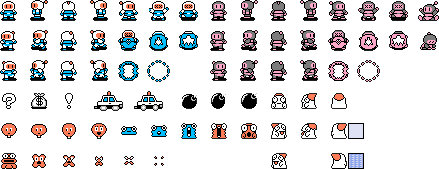
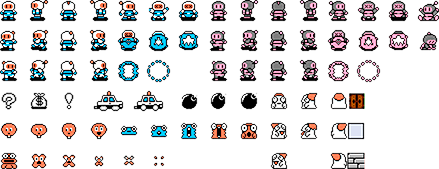
puerta y muros

diff --git a/Proyecto_INT/src/proyecto_int/Main.java b/Proyecto_INT/src/proyecto_int/Main.java
@@ -2,6 +2,7 @@ package bomberman;
 
 import Constantes.ConstantesGlobales;
 import Mapas.Mapa;
+import Modelos.Nodo;
 import java.io.BufferedReader;
 import java.io.File;
 import java.io.FileReader;
@@ -20,6 +21,9 @@ import javax.swing.JOptionPane;
 public class Main extends Application {
 
     ArrayList<String[]> mapa;
+    ArrayList<ArrayList<Nodo>> mapaNodos;
+    int[] inicio;
+    int[] fin;
 
     @Override
     public void start(Stage escenario) {
@@ -35,22 +39,158 @@ public class Main extends Application {
                 mapa.add(linea.split(","));
                 System.out.println(linea);
             }
-            JOptionPane.showMessageDialog(null, "Mapa cargado correctamente");
+            
             escenario.setTitle(ConstantesGlobales.NOMBRE + ConstantesGlobales.VERSION);
-            Mapa.configurarMapa(mapa);
-
+            buscarInicioFinal(mapa);
+            Mapa.configurarMapa(mapa, inicio[0], inicio[1]);
             Scene s = Mapa.getMapa();
             escenario.setScene(s);
+            JOptionPane.showMessageDialog(null, "Mapa cargado correctamente");
+            String[] options = {"Anchura", "Profundidad", "Costo Uniforme", "Beam Search", "Hill climbing", "A estrella"};
+            int selection = JOptionPane.showOptionDialog(null, "Tipo de algoritmo a aplicar:", "Hora de jugar Bomberman!", 0, 3, null, options, options[0]);
+            switch (selection) {
+
+                case 1: {
+
+                    System.out.println("Usted eligió la opcion 1.");
+
+                    break;
+
+                }
+
+                case 2: {
+
+                    System.out.println("Usted eligió la opcion 2.");
+
+                    break;
+
+                }
+
+                case 3: {
+
+                    System.out.println("Usted eligió la opcion 3.");
+
+                    break;
+
+                }
+
+                case 4: {
+
+                    System.out.println("Usted eligió la opcion 3.");
+
+                    break;
+
+                }
+
+                case 5: {
+
+                    System.out.println("Usted eligió la opcion 3.");
+
+                    break;
+
+                }
+
+                case 6: {
+
+                    System.out.println("Usted eligió la opcion 3.");
+
+                    break;
+
+                }
+
+                default: {
+
+                    System.out.println("Opcion incorrecta");
+
+                }
+            }
             escenario.show();
 
         } catch (Exception e) {
-            JOptionPane.showMessageDialog(null, "No se logro cargar el mapa");
+            JOptionPane.showMessageDialog(null, "No se logro cargar el mapa"+e);
         }
 
     }
 
     public static void main(String[] args) {
         launch(args);
+    }
+
+    private void buscarInicioFinal(ArrayList<String[]> mapaTxt) {
+        System.out.println("entra");
+        int x = 0;
+        int y = 0;
+        inicio = new int[2];
+        fin = new int[2];
+        mapaNodos = new ArrayList<ArrayList<Nodo>>();
+        for (String[] i : mapaTxt) {
+            x = 0;
+            ArrayList<Nodo> filaTemporal = new ArrayList<Nodo>();
+
+            for (String j : i) {
+                switch (j) {
+
+                    case "I": {
+                        //filaTemporal.add(new Nodo(x + "" + y));
+                        //this.agregarAdyacencias(mapaTxt, x, y);
+                        inicio[0] = x * 33;
+                        inicio[1] = y * 32;
+                        break;
+
+                    }
+
+                    case "F": {
+                        //filaTemporal.add(new Nodo(x + "" + y));
+                        //this.agregarAdyacencias(mapaTxt, x, y);
+                        fin[0] = x * 33;
+                        fin[1] = y * 32;
+                        break;
+
+                    }
+                    case "M": {
+                        //filaTemporal.add(null);
+                        break;
+
+                    }
+                    case "C": {
+                        //filaTemporal.add(new Nodo(x + "" + y));
+                        //this.agregarAdyacencias(mapaTxt, x, y);
+                        break;
+
+                    }
+                    default: {
+
+                    }
+                }
+                x++;
+            }
+            mapaNodos.add(filaTemporal);
+            y++;
+
+        }
+    }
+
+    public void agregarAdyacencias(ArrayList<String[]> mapaTxt, int x, int y) {
+        ArrayList<Nodo> lista = new ArrayList<Nodo>();
+        if(x>0){
+            lista.add(new Nodo(x-1 + "" + y));
+            
+        }
+        if(x<(mapaTxt.get(0).length-1)){
+            lista.add(new Nodo(x+1 + "" + y));
+        }
+        if(y>0){
+            lista.add(new Nodo(x + "" + (y-1)));
+            
+        }
+        if(y<(mapaTxt.size()+1)){
+            lista.add(new Nodo(x + "" + (y+1)));
+        }
+
+    }
+
+    public void crearArbol(ArrayList<String[]> mapaTxt) {
+
     }
 
 }

diff --git a/Proyecto_INT/src/Mapas/Mapa.java b/Proyecto_INT/src/Mapas/Mapa.java
@@ -9,7 +9,6 @@ import Jugador.Jugador;
 import RecursosMapa.Bomba;
 import RecursosMapa.ParedIndestructible;
 import RecursosMapa.ParedDestructible;
-import RecursosMapa.Pared;
 import Controles.ControlEventos;
 import javafx.scene.Group;
 import javafx.scene.Scene;
@@ -19,6 +18,7 @@ import javafx.scene.paint.Color;
 import Entidades.Entidad;
 import static Constantes.ConstantesGlobales.ANCHO_CANVAS;
 import static Constantes.ConstantesGlobales.ALTO_CANVAS;
+import RecursosMapa.Puerta;
 import java.util.ArrayList;
 
 /**
@@ -53,7 +53,7 @@ public class Mapa {
         }
     }
 
-    private static void inicializar(ArrayList<String[]> mapaTxt) {
+    private static void inicializar(ArrayList<String[]> mapaTxt, int xInicio, int yInicio) {
         root = new Group();
         int anchoMapa = mapaTxt.get(0).length * 33;
         int altoMapa = mapaTxt.size() * 33;
@@ -67,7 +67,7 @@ public class Mapa {
         Renderizado.inicializar();
         CicloJuego.iniciar(contextoGraficos);
 
-        Jugador p = new Jugador();
+        Jugador p = new Jugador(xInicio, yInicio);
         setJugador(p);
 
         cargarMapa(mapaTxt);
@@ -77,7 +77,6 @@ public class Mapa {
     }
 
     public static void cargarMapa(ArrayList<String[]> mapaTxt) {
-        Vector<Pared> muros = new Vector<Pared>();
         int x = 0;
         int y = 0;
         for (String[] i : mapaTxt) {
@@ -96,6 +95,10 @@ public class Mapa {
                         break;
 
                     }
+                    case "F": {
+                        addEntidad(new Puerta(x, y));
+                        break;
+                    }
                     default: {
 
                     }
@@ -107,9 +110,9 @@ public class Mapa {
         }
     }
 
-    public static void configurarMapa(ArrayList<String[]> mapaTxt) {
+    public static void configurarMapa(ArrayList<String[]> mapaTxt, int xInicio, int yInicio) {
         if (!mapaListo) {
-            inicializar(mapaTxt);
+            inicializar(mapaTxt, xInicio, yInicio);
             mapaListo = true;
         }
     }

diff --git a/Proyecto_INT/src/RecursosMapa/Puerta.java b/Proyecto_INT/src/RecursosMapa/Puerta.java
@@ -1,17 +1,20 @@
+/*
+ * To change this license header, choose License Headers in Project Properties.
+ * To change this template file, choose Tools | Templates
+ * and open the template in the editor.
+ */
 package RecursosMapa;
 
-import bomberman.Renderizado;
 import Animaciones.Disfraz;
-import Constantes.ConstantesGlobales;
-import javafx.scene.paint.Color;
-import Entidades.EntidadEstatica;
 import Entidades.Entidad;
+import Entidades.EntidadEstatica;
+import bomberman.Renderizado;
 
 /**
  *
- * * @author julian y migue
+ * @author NEWSHORE_
  */
-public class ParedIndestructible implements EntidadEstatica {
+public class Puerta implements EntidadEstatica {
     public int posicionX = 0;
     public int posicionY = 0;
     private int alto;
@@ -20,17 +23,16 @@ public class ParedIndestructible implements EntidadEstatica {
     HitboxMuro limite;
 
 
-    public ParedIndestructible (int x, int y) {
+    public Puerta (int x, int y) {
     	posicionX = x;
     	posicionY = y;
 
-    	ancho = 20;
-    	alto = 20;
+    	ancho = 0;
+    	alto = 0;
 
-    	disfraz = new Disfraz(this, 16, 0, 348, 123, 1, 16, 16, 2, false);
-    	limite = new HitboxMuro(posicionX, posicionY, ancho, alto);
+    	disfraz = new Disfraz(this, 16, 0, 349, 93, 1, 16, 16, 2, false);
+    	limite = new HitboxMuro(1, 1, 1, 1);
     }
-
 
     @Override
     public boolean isColision(Entidad b) {

diff --git a/Proyecto_INT/src/Modelos/Nodo.java b/Proyecto_INT/src/Modelos/Nodo.java
@@ -15,7 +15,7 @@ import java.util.List;
 public class Nodo {
     private String nombre;
     private boolean visitado;
-    private List<Nodo> listaAdyacencias;
+    private ArrayList<Nodo> listaAdyacencias;
     private Nodo predecesor;
     private boolean actualVisitado;
     private double costo;
@@ -53,7 +53,7 @@ public class Nodo {
         return listaAdyacencias;
     }
 
-    public void setListaAdyacencias(List<Nodo> listaAdyacencias) {
+    public void setListaAdyacencias(ArrayList<Nodo> listaAdyacencias) {
         this.listaAdyacencias = listaAdyacencias;
     }
     

diff --git a/Proyecto_INT/src/RecursosMapa/ParedDestructible.java b/Proyecto_INT/src/RecursosMapa/ParedDestructible.java
@@ -24,8 +24,8 @@ public class ParedDestructible implements EntidadEstatica {
     	posicionX = x;
     	posicionY = y;
 
-    	ancho = 16;
-    	alto = 16;
+    	ancho = 30;
+    	alto = 30;
 
     	disfraz = new Disfraz(this, 16, 0, 348, 153, 1, 16, 16, 2, false);
     	limite = new HitboxMuro(posicionX, posicionY, ancho, alto);
